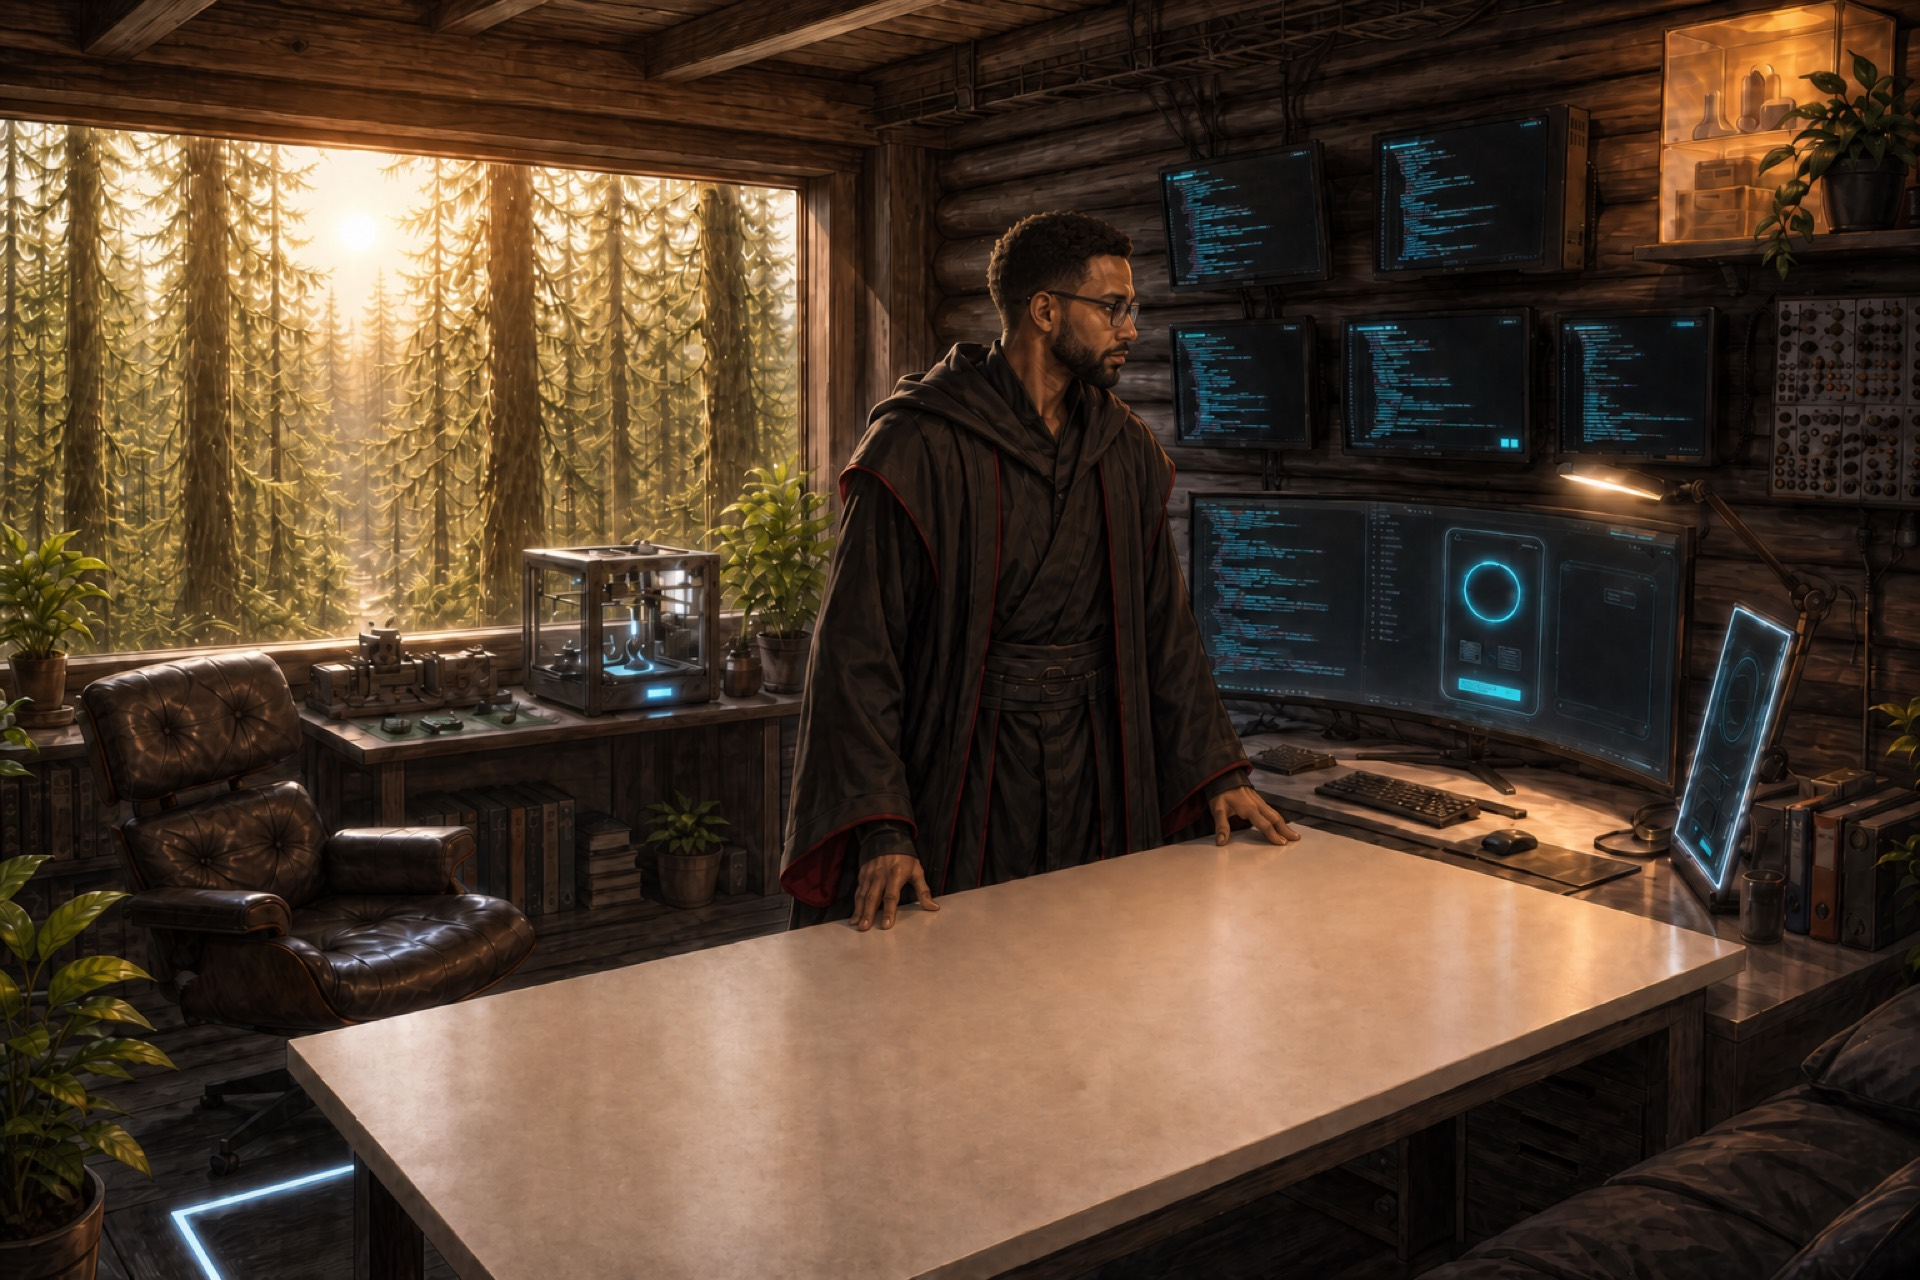
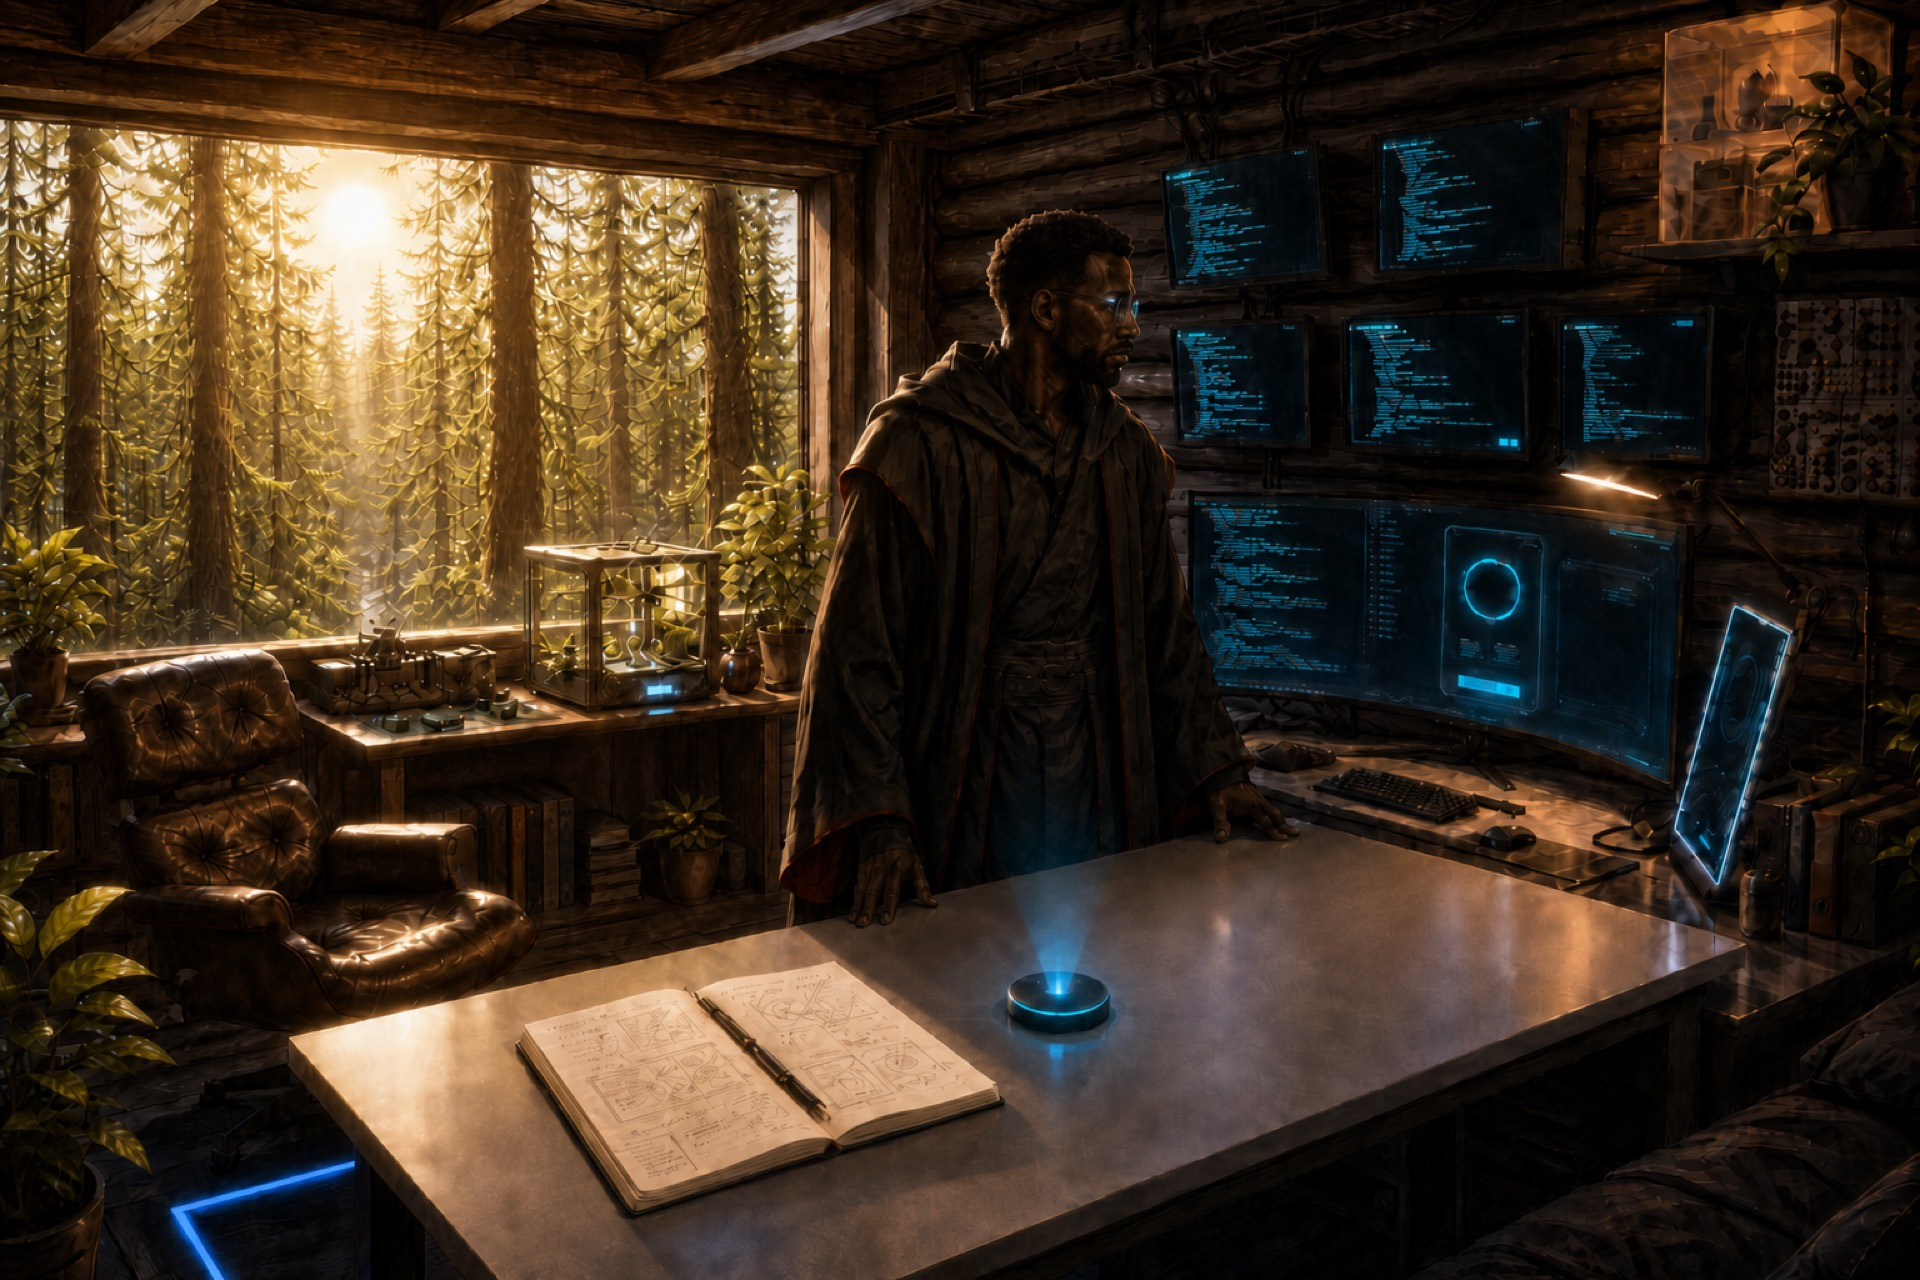
Repaint the lab: darker complexion, Troutt as a desk sketchbook
Troutt is a notes app, so a floating phone panel was the wrong object for
it — it is now the open sketchbook painted on the desk, and tapping it
lifts a card off the page. Nimlo keeps its hologram but now rises out of
a projector puck instead of hovering unexplained, and Caelum's skin is
several shades deeper.

The new artwork moved every monitor, so all overlay coordinates were
re-traced against it. Screens lost their tinted fill, which made any
tracing error read as a rectangle floating over the painting. Portrait
now scales the scene to fit the sketchbook, hologram and console side by
side rather than panning across them.

diff --git a/site.css b/site.css
@@ -167,8 +167,8 @@ html[data-sky="day"] .lab-photo--day {
 /* Sits over the moon / sun already painted into the window. */
 .sky-glow {
     position: absolute;
-    left: 18.9%;
-    top: 17.3%;
+    left: 18.6%;
+    top: 17.2%;
     width: 7%;
     aspect-ratio: 1;
     transform: translate(-50%, -50%);
@@ -179,8 +179,8 @@ html[data-sky="day"] .lab-photo--day {
 }
 
 html[data-sky="day"] .sky-glow {
-    left: 18.6%;
-    top: 18.9%;
+    left: 18.5%;
+    top: 16.9%;
     width: 11%;
     background: radial-gradient(circle, color-mix(in oklab, #ffd48a 45%, transparent) 0%, transparent 64%);
 }
@@ -208,19 +208,21 @@ html[data-sky="day"] .sky-glow {
     pointer-events: none;
 }
 
+/* No fill: a tinted box would read as a rectangle floating over the painting
+   wherever the traced bounds miss the bezel by a pixel. */
 .screen {
     position: absolute;
     overflow: hidden;
-    background: color-mix(in oklab, #04121c 62%, transparent);
     mix-blend-mode: screen;
 }
 
 /* Coordinates traced from the glowing text areas of the source painting. */
-.screen--m1 { left: 60.8%; top: 13.4%; width: 5.0%; height: 8.4%; }
-.screen--m2 { left: 72.1%; top: 11.1%; width: 5.2%; height: 9.1%; }
-.screen--m3 { left: 61.5%; top: 25.9%; width: 4.5%; height: 8.2%; }
-.screen--m4 { left: 70.3%; top: 25.5%; width: 6.8%; height: 8.6%; }
-.screen--m5 { left: 81.7%; top: 25.5%; width: 5.8%; height: 9.0%; }
+.screen--m1 { left: 60.9%; top: 13.1%; width: 4.7%; height: 9.5%; }
+.screen--m2 { left: 72.2%; top: 10.9%; width: 5.3%; height: 10.0%; }
+/* m3 starts well inside its bezel — Caelum's shoulder covers the left third. */
+.screen--m3 { left: 60.4%; top: 25.6%; width: 5.5%; height: 9.3%; }
+.screen--m4 { left: 70.5%; top: 25.2%; width: 8.4%; height: 9.8%; }
+.screen--m5 { left: 81.7%; top: 25.2%; width: 6.3%; height: 9.7%; }
 
 .screen-feed {
     margin: 0;
@@ -238,16 +240,16 @@ html[data-sky="day"] .sky-glow {
    to scroll, so it reads as another window open in the lab. */
 .console {
     position: absolute;
-    left: 62.6%;
-    top: 39.5%;
-    width: 7.6%;
+    left: 62.9%;
+    top: 38.3%;
+    width: 8%;
     z-index: 5;
     display: flex;
     flex-direction: column;
     align-items: flex-start;
     gap: 0.15cqw;
     font-family: ui-monospace, SFMono-Regular, Menlo, monospace;
-    font-size: 0.72cqw;
+    font-size: 0.9cqw;
     line-height: 1.5;
     color: #8ce8ff;
     text-shadow: 0 0 0.3cqw color-mix(in oklab, #8ce8ff 70%, transparent);
@@ -353,17 +355,18 @@ html[data-sky="day"] .sky-glow {
 }
 
 .hotspot--chair {
-    left: 10%;
-    top: 62%;
+    left: 13%;
+    top: 63%;
     width: 1.7%;
     aspect-ratio: 1;
 }
 
-/* Holograms stand on the empty desk in the foreground of the painting. */
+/* Traced to the projector puck painted on the desk, so the plate stands in the
+   cone of light coming off it. */
 .hologram {
     position: absolute;
     z-index: 7;
-    width: 10%;
+    width: 8%;
     display: flex;
     flex-direction: column;
     align-items: center;
@@ -371,12 +374,65 @@ html[data-sky="day"] .sky-glow {
     animation: hologram-float 6s ease-in-out infinite;
 }
 
-.hologram--troutt { left: 25%; top: 55%; }
-.hologram--nimlo { left: 39%; top: 55%; animation-duration: 7.1s; animation-delay: -1.6s; }
+.hologram--nimlo { left: 50.8%; top: 52.4%; animation-duration: 7.1s; animation-delay: -1.6s; }
 
 /* Hidden while its clone is flying to the centre of the screen. */
-.hologram.is-launching {
+.hologram.is-launching,
+.notebook.is-launching {
     opacity: 0;
+}
+
+/* Troutt is the open sketchbook painted on the desk rather than a projection —
+   this is just the hit area, the lighting and the label over it. */
+.notebook {
+    position: absolute;
+    left: 27%;
+    top: 74.5%;
+    width: 25%;
+    height: 14.5%;
+    z-index: 7;
+    background: none;
+}
+
+.notebook-glow {
+    position: absolute;
+    inset: -18% -8%;
+    border-radius: 50%;
+    pointer-events: none;
+    background: radial-gradient(ellipse at center, color-mix(in oklab, var(--accent) 26%, transparent) 0%, transparent 68%);
+    /* Faintly lit at rest so touch users can tell the book is a control. */
+    opacity: 0.3;
+    transition: opacity 0.3s;
+}
+
+.notebook:hover .notebook-glow,
+.notebook:focus-visible .notebook-glow {
+    opacity: 1;
+}
+
+/* Invisible until it is cloned for the flight to the centre of the screen. */
+.notebook-plate {
+    position: absolute;
+    left: 50%;
+    top: 50%;
+    width: 34%;
+    transform: translate(-50%, -50%);
+    opacity: 0;
+    pointer-events: none;
+}
+
+.notebook-plate img {
+    display: block;
+    width: 100%;
+    height: auto;
+}
+
+.notebook .hologram-caption {
+    position: absolute;
+    left: 50%;
+    top: calc(100% + 0.4cqw);
+    width: 100%;
+    transform: translateX(-50%);
 }
 
 /* The projector cone rising off the desk. */
@@ -443,6 +499,8 @@ html[data-sky="day"] .sky-glow {
 .hologram-caption {
     text-align: center;
     text-shadow: 0 0.15cqw 0.6cqw #000;
+    /* Wider than the narrow plate it sits under, so it never wraps. */
+    white-space: nowrap;
 }
 
 .hologram-name {
@@ -768,40 +826,41 @@ html[data-sky="day"] .sky-glow {
     }
 }
 
-/* Portrait: letterboxing would shrink the painting to a thin strip, so fill the
-   screen by height and pan to the slice holding Caelum and his desk. */
+/* Portrait: the notebook, the hologram and the console monitor span 27%–71% of
+   the painting, wider than a phone can show at full height. Blow the scene up
+   only as far as that slice allows, centre on it, and let the blurred backdrop
+   fill the bands above and below. */
 @media (max-aspect-ratio: 5 / 4) {
     .lab-scene {
+        --scene-w: min(195vw, 150svh);
         position: absolute;
-        top: 0;
+        top: 50%;
         left: 50%;
-        width: calc(100svh * 3 / 2);
-        height: 100svh;
-        /* Framed so the desk, Caelum and the console monitor all stay on screen. */
-        transform: translateX(-58%);
+        width: var(--scene-w);
+        height: calc(var(--scene-w) / 1.5);
+        transform: translate(-50.7%, -50%);
         box-shadow: none;
-    }
-
-    .lab::before {
-        display: none;
     }
 
     /* Keep the kicker over the visible slice rather than the scene's midpoint. */
     .lab-kicker {
-        left: 58%;
+        left: 50.7%;
     }
 
+    /* cqw shrinks with the scene, so the type needs winding back up by hand. */
     .console {
-        width: 9.6%;
-        font-size: 1.05cqw;
+        width: 11.5%;
+        font-size: 1.45cqw;
+        gap: 0.3cqw;
     }
 
-    .hologram {
-        width: 9.5%;
+    .screen-feed {
+        font-size: 0.75cqw;
     }
 
-    .hologram--troutt { left: 45.5%; top: 54%; }
-    .hologram--nimlo { left: 56%; top: 54%; }
+    .hologram-name { font-size: 1.9cqw; }
+    .hologram-meta { font-size: 1.2cqw; }
+    .hotspot-label { font-size: 1.3cqw; }
 }
 
 @media (prefers-reduced-motion: reduce) {

diff --git a/index.html b/index.html
@@ -13,7 +13,7 @@
     <link rel="preconnect" href="https://fonts.googleapis.com">
     <link rel="preconnect" href="https://fonts.gstatic.com" crossorigin>
     <link href="https://fonts.googleapis.com/css2?family=Fraunces:opsz,wght@9..144,500;9..144,600&family=Outfit:wght@400;500;600;700&display=swap" rel="stylesheet">
-    <link rel="stylesheet" href="site.css?v=12">
+    <link rel="stylesheet" href="site.css?v=14">
     <style>html,body{background:#07080c;color:#F5F3EE}</style>
 </head>
 <body>
@@ -64,12 +64,12 @@
 
             <p class="lab-kicker">independent app producer</p>
 
-            <button class="hologram hologram--troutt" type="button" data-product="troutt">
-                <span class="hologram-plate">
-                    <img src="images/troutt-notes.jpg" alt="Troutt hologram" width="900" height="1955">
+            <button class="notebook" type="button" data-product="troutt">
+                <span class="notebook-glow" aria-hidden="true"></span>
+                <span class="notebook-plate" aria-hidden="true">
+                    <img src="images/troutt-notes.jpg" alt="" width="900" height="1955">
                     <span class="hologram-scan"></span>
                 </span>
-                <span class="hologram-base"></span>
                 <span class="hologram-caption">
                     <span class="hologram-name">troutt</span>
                     <span class="hologram-meta">notes · live on ios</span>
@@ -180,6 +180,6 @@
         </div>
     </template>
 
-    <script src="main.js?v=8" type="module"></script>
+    <script src="main.js?v=9" type="module"></script>
 </body>
 </html>

diff --git a/main.js b/main.js
@@ -92,12 +92,13 @@ document.querySelectorAll("[data-open]").forEach((btn) => {
 });
 
 /**
- * Lifts a copy of the tapped hologram off the desk, flies it to the middle of
- * the screen and grows it, so the detail sheet reads as that same panel opening
- * up rather than an unrelated modal.
+ * Lifts a copy of the tapped object off the desk, flies it to the middle of the
+ * screen and grows it, so the detail sheet reads as that same panel opening up
+ * rather than an unrelated modal. The notebook's plate is invisible until it is
+ * cloned, so its pages appear to lift off the page.
  */
 function launchHologram(button) {
-  const plate = button.querySelector(".hologram-plate");
+  const plate = button.querySelector(".hologram-plate, .notebook-plate");
   if (!plate) return Promise.resolve();
 
   const from = plate.getBoundingClientRect();
@@ -151,7 +152,7 @@ function openProduct(button) {
   inspector.showModal();
 }
 
-document.querySelectorAll(".hologram").forEach((btn) => {
+document.querySelectorAll(".hologram, .notebook").forEach((btn) => {
   btn.addEventListener("click", () => {
     if (reduceMotion) {
       openProduct(btn);

diff --git a/README.md b/README.md
@@ -1,7 +1,7 @@
 # Caelum Mercer
 
 Personal site for independent app producer Caelum Mercer.
-The painted lab scene is the canvas for the whole page. Every interactive element is positioned in image coordinates against the 3:2 artwork, so the live terminal feeds render inside the monitors that exist in the painting, the about/contact navigation sits on the ultrawide as a shell prompt, and Troutt and Nimlo stand as holograms on the desk. Click a hologram for its description and store listings. The sun or moon scene follows the visitor's local time of day.
+The painted lab scene is the canvas for the whole page. Every interactive element is positioned in image coordinates against the 3:2 artwork, so the live terminal feeds render inside the monitors that exist in the painting, the about/contact navigation sits on the ultrawide as a shell prompt, Troutt is the open sketchbook lying on the desk, and Nimlo is projected out of the emitter puck beside it. Click either for its description and store listings. The sun or moon scene follows the visitor's local time of day.
 
 Screen and hologram coordinates were traced from the source artwork, not eyeballed — if the images are ever regenerated, the percentages in `site.css` need to be re-measured.
 
